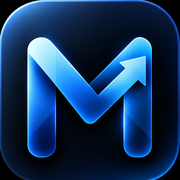
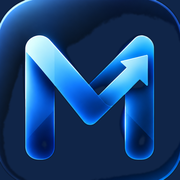
Icône plein cadre pour l'écran d'accueil
Claude-Session: https://claude.ai/code/session_01JukhYnz2wVaderZN2FDtHX

diff --git a/sw.js b/sw.js
@@ -1,4 +1,4 @@
-const C="mymo-v2",F=["./","index.html","manifest.webmanifest","icon-192.png","icon-512.png","apple-touch-icon.png"];
+const C="mymo-v3",F=["./","index.html","manifest.webmanifest","icon-192.png","icon-512.png","apple-touch-icon.png"];
 self.addEventListener("install",e=>{e.waitUntil(caches.open(C).then(c=>c.addAll(F)));self.skipWaiting()});
 self.addEventListener("activate",e=>e.waitUntil(caches.keys().then(k=>Promise.all(k.filter(x=>x!=C).map(x=>caches.delete(x))))));
 self.addEventListener("fetch",e=>{const u=new URL(e.request.url);if(e.request.method!="GET"||u.origin!=location.origin)return;
